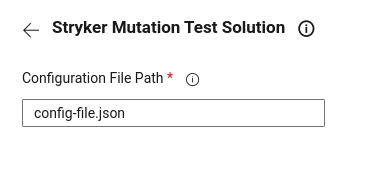
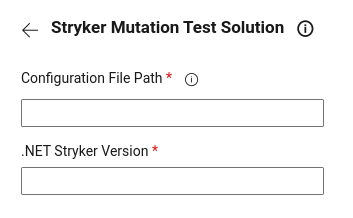
Adds dotnetStrykerVersion parameter to task

diff --git a/src/strykersolutiontest/index.ts b/src/strykersolutiontest/index.ts
@@ -1,12 +1,12 @@
 import * as tl from 'azure-pipelines-task-lib/task';
 
-const strykerAppPython: string  = "https://gist.githubusercontent.com/JRafaelNascimento/3a6146b6e4d0a4db411ff4813f92e74b/raw/f85898f0cfa984ef5d8f39f4c6ead2af09ff4cbb/stryker-solution-script.py";
-const dotnetStrykerVersion: string  = "2.1.2";
+const strykerAppPython: string  = "https://gist.githubusercontent.com/JRafaelNascimento/3a6146b6e4d0a4db411ff4813f92e74b/raw/76eaa88d6e101291fa9460b0308d8ac5b9601162/stryker-solution-script.py";
 
 async function run() {
     try {
         // get inputs
         var configFilePath: string = tl.getInput('configFilePath', true);
+        var dotnetStrykerVersion: string = tl.getInput('dotnetStrykerVersion', true);
 
         // install tools
         await tl.exec('dotnet', ["tool", "install", "-g", "dotnet-stryker", "--version", dotnetStrykerVersion]);

diff --git a/README.md b/README.md
@@ -9,6 +9,7 @@ Add a new task, select **Stryker Mutation Test Solution** from the **Test** cate
 
 Parameters include:
 - **Config File Path**: Path to Stryker .NET Solution configuration file. [Click here to read more](https://github.com/JRafaelNascimento/stryker-dotnet-solution#readme)
+- **Dotnet Stryker Version**: .NET Stryker Version.
 
 ![Stryker Mutation Test Config](images/stryker-mutation-solution-config.png)
 
@@ -19,11 +20,12 @@ Also, its possible to configure directly to Azure Pipeline YAML:
   displayName: Mutation Tests
   inputs:
     configFilePath: 'tests/stryker-multi-project-config.json'
+    dotnetStrykerVersion: '2.1.2'
 ```
 
 ## Release notes
 
-**New in 1.0.4**
+**New in 1.0.7**
 - Runs Stryker .NET Mutation tests for all configured projects;
 
 ## Related Links
